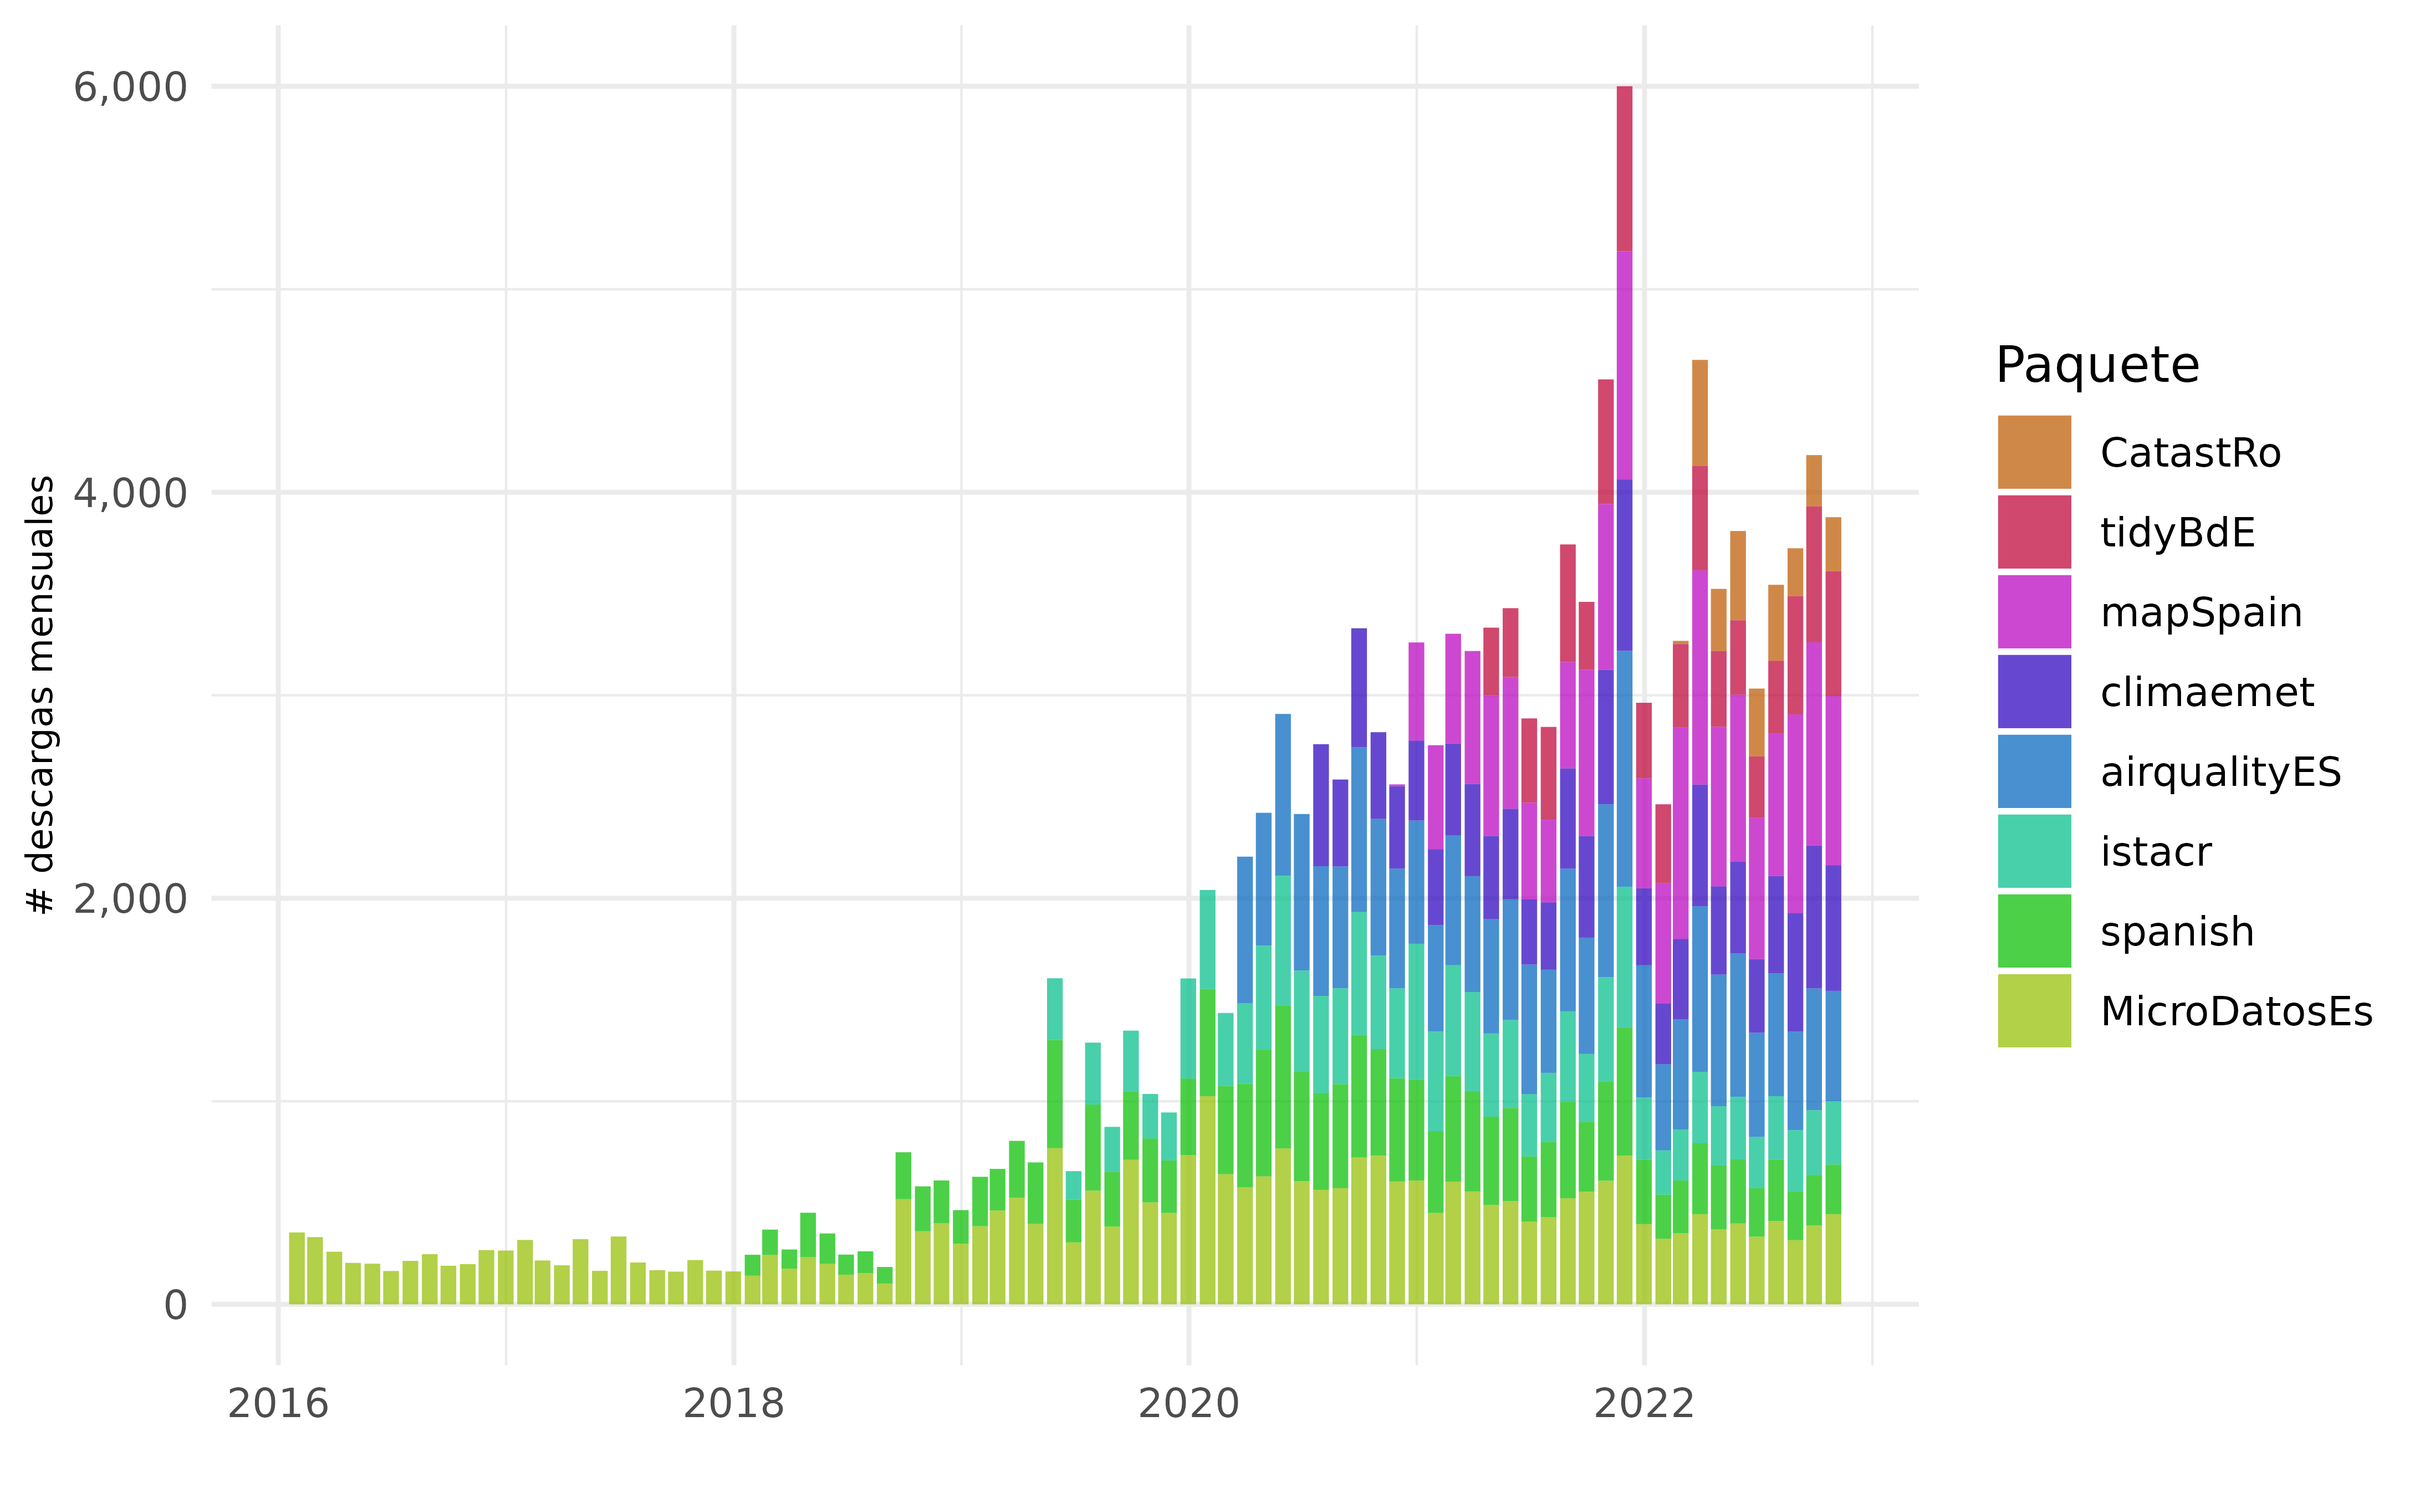
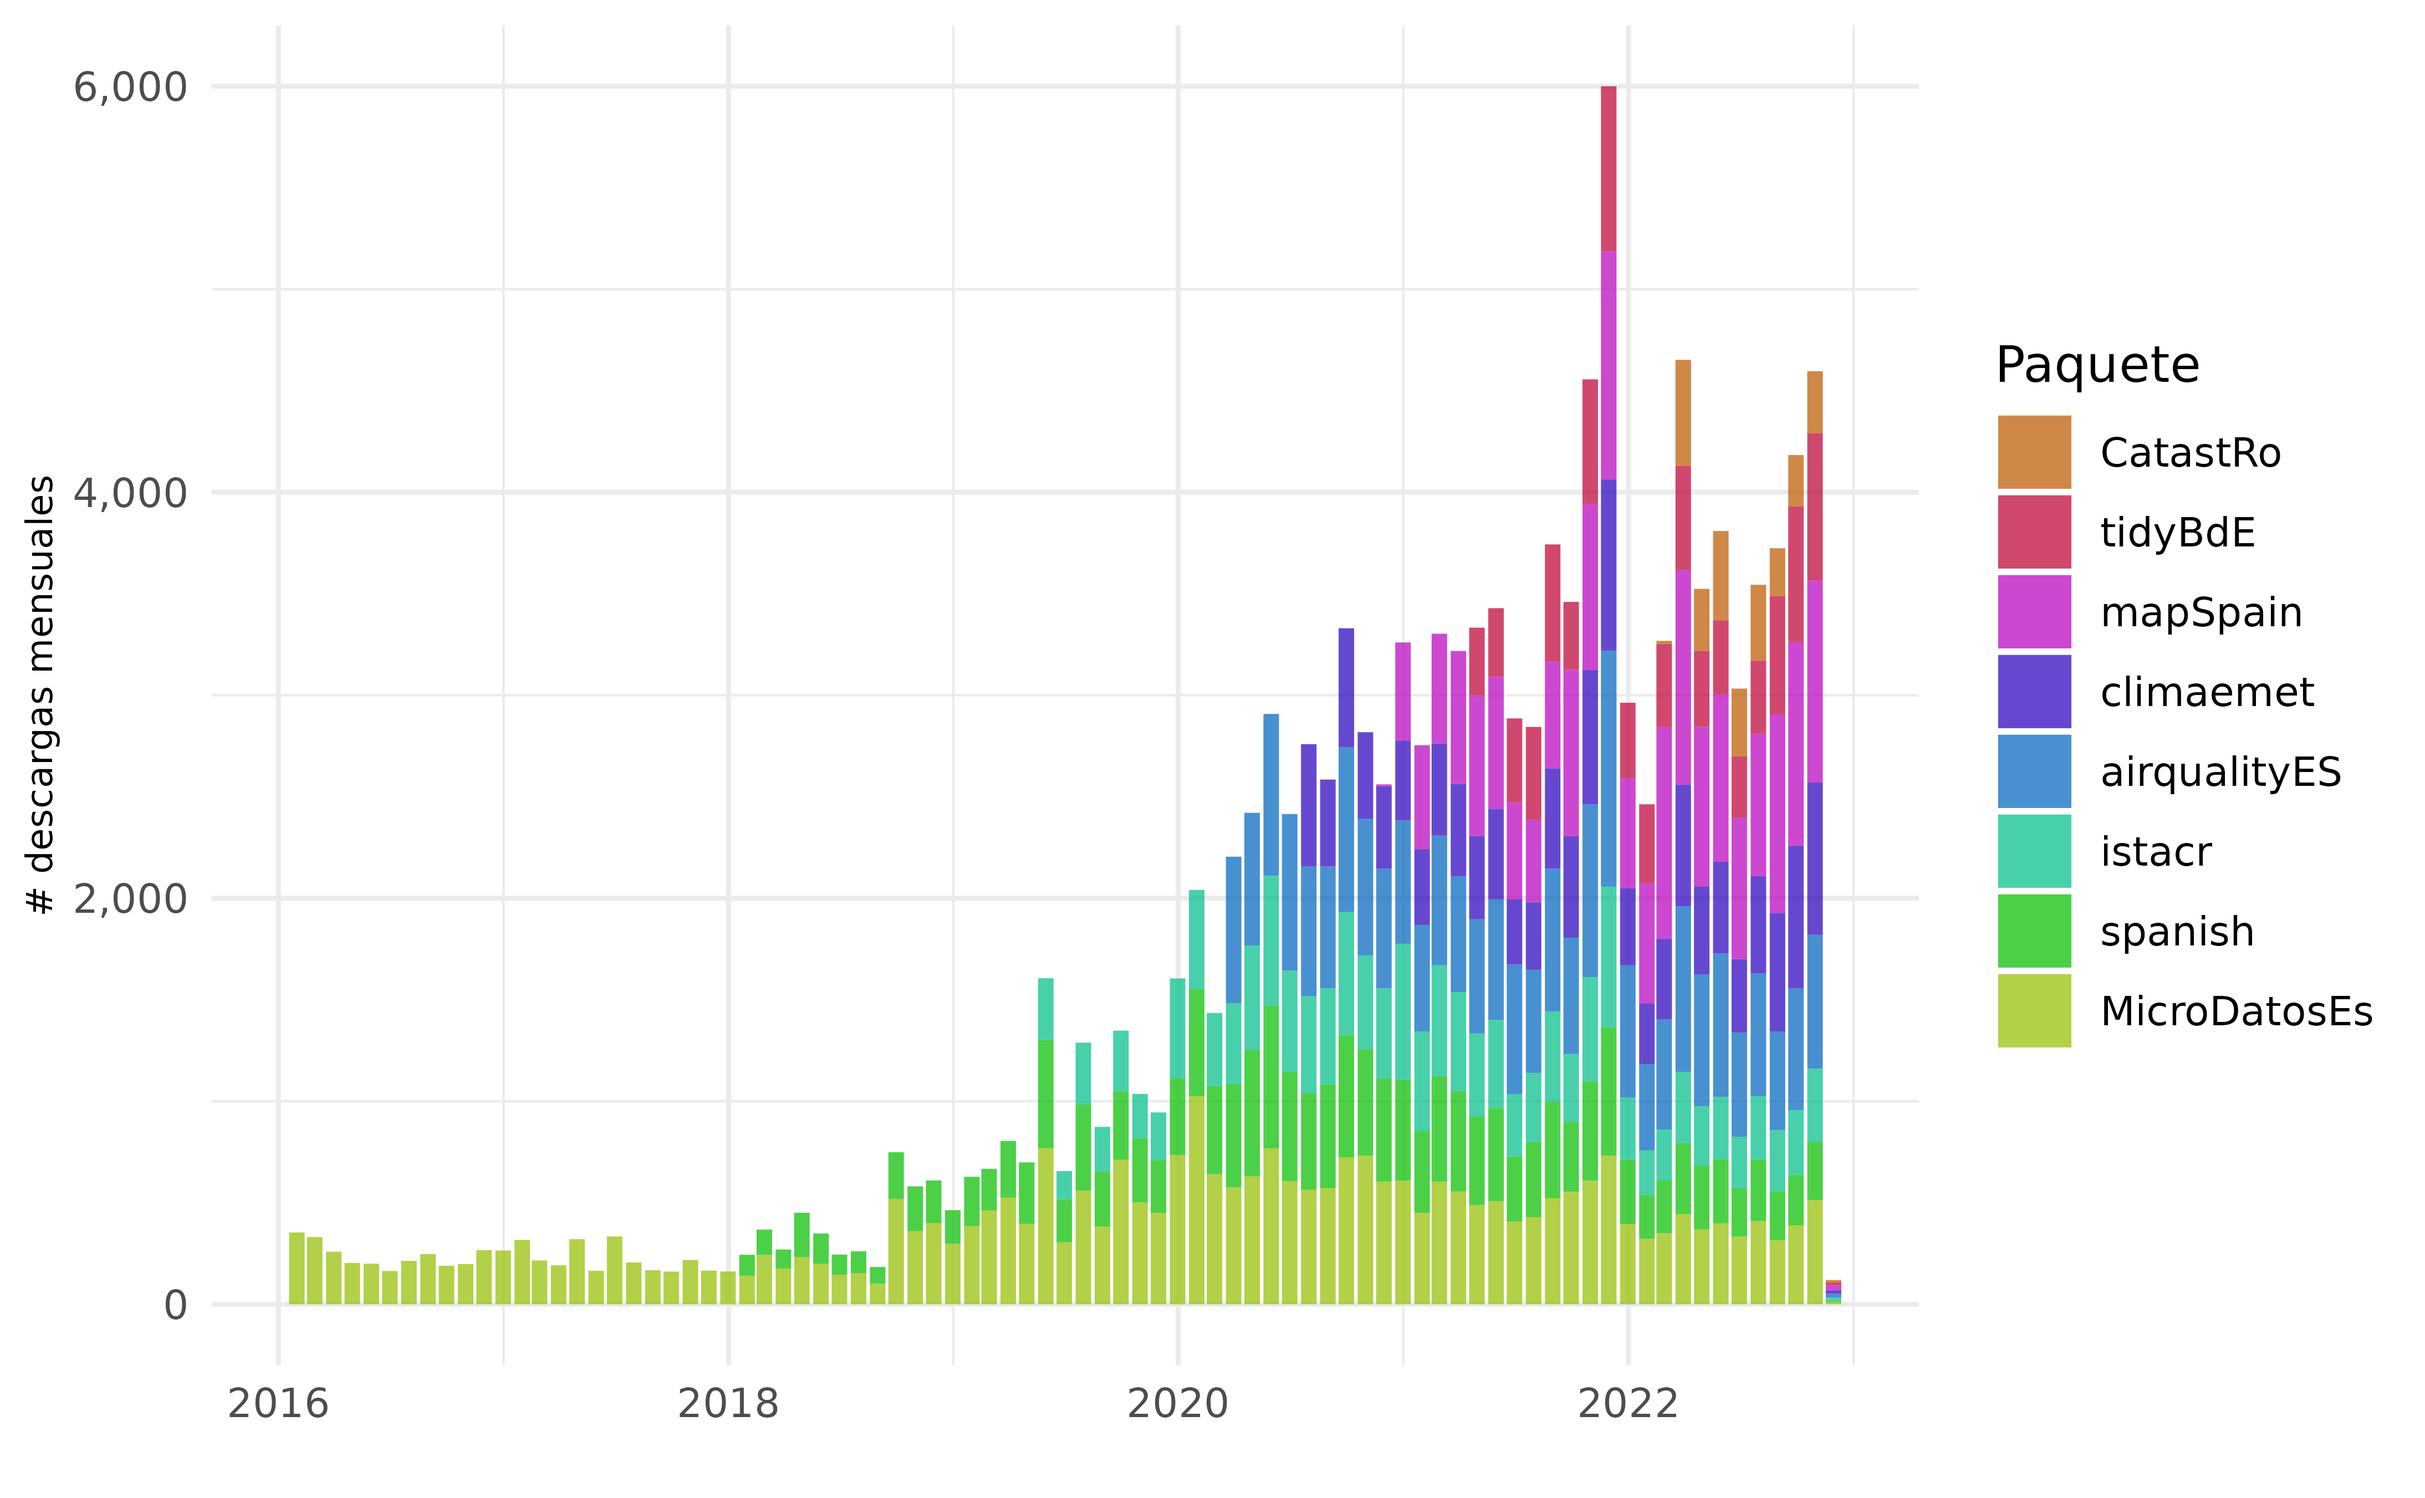
Built site for rostemplate: 0.1.1.9000@9bdd130

diff --git a/articles/descargas.html b/articles/descargas.html
@@ -100,7 +100,7 @@
 
     
     
-<p><em>Fecha de actualización: 27 Oct 2022</em></p>
+<p><em>Fecha de actualización: 03 Nov 2022</em></p>
 <p>Descargas de paquetes de rOpenSpain desde CRAN.</p>
 <div class="section level2">
 <h2 id="total-de-descargas">Total de descargas<a class="anchor" aria-label="anchor" href="#total-de-descargas"></a>
@@ -116,7 +116,7 @@
 <h2 id="datos">Datos<a class="anchor" aria-label="anchor" href="#datos"></a>
 </h2>
 <div id="station-table" class="reactable html-widget" style="width:auto;height:auto;"></div>
-<script type="application/json" data-for="station-table">{"x":{"tag":{"name":"Reactable","attribs":{"data":{"paquete":["CatastRo","tidyBdE","mapSpain","climaemet","airqualityES","istacr","spanish","MicroDatosEs"],"en CRAN":["2022-02-28","2021-04-08","2020-11-30","2020-07-07","2020-02-29","2019-04-24","2017-12-14","2013-10-21"],"media descargas diarias":[11.5,15.7,24.1,16,21.4,13,11.6,13.3],"ultimo dia":[7,8,35,10,14,8,4,10],"ultima semana":[65,140,206,157,124,65,52,90],"ultimo mes":[291,696,951,693,624,346,270,476],"ultimo año":[2747,5937,10363,6330,7934,4064,3807,5067]},"columns":[{"accessor":"paquete","name":"paquete","type":"character"},{"accessor":"en CRAN","name":"en CRAN","type":"Date"},{"accessor":"media descargas diarias","name":"media descargas diarias","type":"numeric"},{"accessor":"ultimo dia","name":"ultimo dia","type":"numeric"},{"accessor":"ultima semana","name":"ultima semana","type":"numeric"},{"accessor":"ultimo mes","name":"ultimo mes","type":"numeric"},{"accessor":"ultimo año","name":"ultimo año","type":"numeric"}],"filterable":true,"searchable":true,"defaultPageSize":10,"showPageSizeOptions":true,"pageSizeOptions":[10,25,50,100],"paginationType":"jump","showPageInfo":true,"minRows":1,"striped":true,"elementId":"station-table","dataKey":"0018c12eb9a2ee0ead246aa9afdaa955"},"children":[]},"class":"reactR_markup"},"evals":[],"jsHooks":[]}</script>
+<script type="application/json" data-for="station-table">{"x":{"tag":{"name":"Reactable","attribs":{"data":{"paquete":["CatastRo","tidyBdE","mapSpain","climaemet","airqualityES","istacr","spanish","MicroDatosEs"],"en CRAN":["2022-02-28","2021-04-08","2020-11-30","2020-07-07","2020-02-29","2019-04-24","2017-12-14","2013-10-21"],"media descargas diarias":[11.4,15.8,24.1,16,21.4,13,11.5,13.3],"ultimo dia":[12,15,26,15,19,14,8,11],"ultima semana":[40,76,127,86,79,42,33,54],"ultimo mes":[306,694,953,712,637,351,277,500],"ultimo año":[2799,5798,10290,6220,7712,3924,3680,4920]},"columns":[{"accessor":"paquete","name":"paquete","type":"character"},{"accessor":"en CRAN","name":"en CRAN","type":"Date"},{"accessor":"media descargas diarias","name":"media descargas diarias","type":"numeric"},{"accessor":"ultimo dia","name":"ultimo dia","type":"numeric"},{"accessor":"ultima semana","name":"ultima semana","type":"numeric"},{"accessor":"ultimo mes","name":"ultimo mes","type":"numeric"},{"accessor":"ultimo año","name":"ultimo año","type":"numeric"}],"filterable":true,"searchable":true,"defaultPageSize":10,"showPageSizeOptions":true,"pageSizeOptions":[10,25,50,100],"paginationType":"jump","showPageInfo":true,"minRows":1,"striped":true,"elementId":"station-table","dataKey":"a23238e75e061c5436ffbf0aebf54f23"},"children":[]},"class":"reactR_markup"},"evals":[],"jsHooks":[]}</script>
 </div>
   </main><aside class="col-md-3"><nav id="toc"><h2>En esta página</h2>
     </nav></aside>
